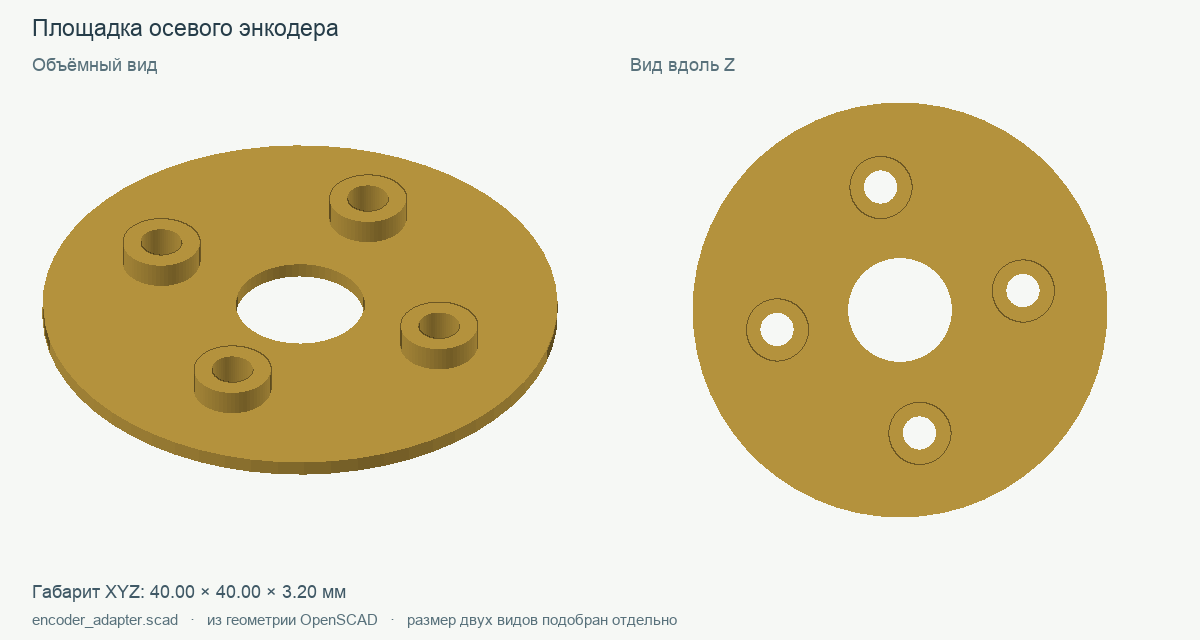
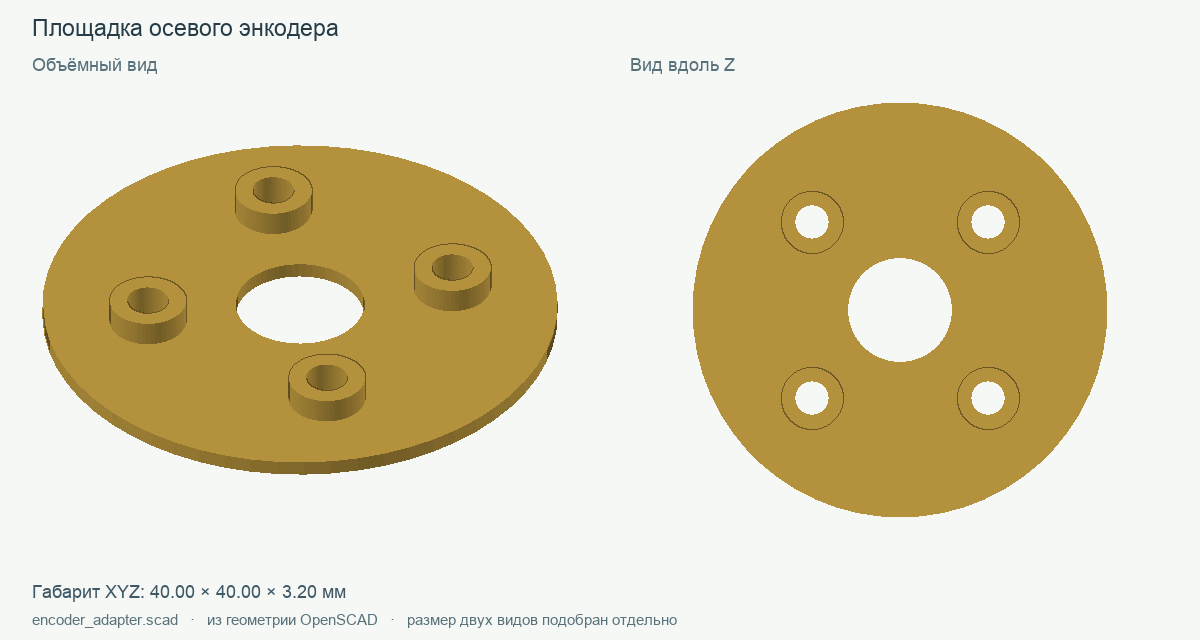
Separate motor cover adapter holes from motor mounting bores
Place adapter fasteners at 45-degree diagonals independently of the outer cover mounting phase, and use matching coordinates on both mating parts. Update saved SCAD models, catalog images and README title.

Verify actual bores and solid webs in generated D70/D80 models and the README reference model. All 24 generator tests pass.

diff --git a/calc-vpts.py b/calc-vpts.py
@@ -87,6 +87,7 @@ mc_base_thickness = 4.0   # толщина нижней плиты
 mc_encoder_hole_d = 10.0  # центральное отверстие под магнит
 mc_motor_hole_1 = 16.0    # расстояние между первой парой отверстий
 mc_motor_hole_2 = 19.0    # расстояние между второй парой отверстий
+mc_adapter_angle = 45.0  # отверстия адаптера между осями крепления двигателя
 mc_nut_pad_radius = 24.0  # радиус закладных площадок
 mc_nut_pad_d = 6.0        # диаметр площадки под гайку
 mc_nut_pad_h = 3.0        # высота выступа площадки
@@ -364,6 +365,8 @@ mc_base_thickness = {mc_base_thickness:.1f};
 mc_encoder_hole_d = {mc_encoder_hole_d:.1f};
 mc_motor_hole_1 = {mc_motor_hole_1:.1f};
 mc_motor_hole_2 = {mc_motor_hole_2:.1f};
+mc_adapter_angle = {mc_adapter_angle:.1f};
+mc_adapter_angles = [for (i = [0:3]) mc_adapter_angle + 90*i];
 mc_nut_pad_radius = {mc_nut_pad_radius:.1f};
 mc_nut_pad_d = {mc_nut_pad_d:.1f};
 mc_nut_pad_h = {mc_nut_pad_h:.1f};
@@ -732,8 +735,8 @@ module motor_cover() {{
         }}
         // --- Закладные площадки под гайки (внутри кожуха, на верхней стороне плиты) ---
         {{
-            for (angle = motor_angles) {{
-                rotate([0, 0, angle+45]){{
+            for (angle = mc_adapter_angles) {{
+                rotate([0, 0, angle]){{
                     translate([mc_nut_pad_radius/2, 0, mc_base_thickness-2.49])
                         cylinder(h = mc_nut_pad_h, r = mc_nut_pad_d / 2, center = false);
                      translate([mc_nut_pad_radius/2, 0, 0])
@@ -1145,15 +1148,15 @@ module encoder_adapter(h=1.2){{
     difference() {{
         union() {{
             cylinder(h = h, r = mc_motor_plate_d / 2-5, center = false);
-            for (angle = motor_angles) {{
-                rotate([0, 0, angle+45]){{
+            for (angle = mc_adapter_angles) {{
+                rotate([0, 0, angle]){{
                     translate([mc_nut_pad_radius/2, 0, h])
                         cylinder(h = 2, r = 3);
                 }}
             }}
         }}
-        for (angle = motor_angles) {{
-            rotate([0, 0, angle+45]){{
+        for (angle = mc_adapter_angles) {{
+            rotate([0, 0, angle]){{
                 translate([mc_nut_pad_radius/2, 0, -0.01])
                     cylinder(h = h+2.02, r = 1.6);
             }}

diff --git a/tests/test_encoder_generator.py b/tests/test_encoder_generator.py
@@ -144,6 +144,37 @@ class GeneratorIntegrationTests(unittest.TestCase):
                     self.assertNotIn('ERROR:',result.stderr)
 
     @unittest.skipUnless(OPENSCAD,'OpenSCAD CLI is not installed')
+    def test_motor_adapter_holes_leave_solid_webs(self):
+        # Probe the actual solids: both mating parts need four diagonal bores,
+        # and material must remain between them and the motor mounting bores.
+        models=[self.models[70],self.models[80],ROOT/'docs/parts/reference_model.scad']
+        probes={
+            'cover_holes': ('motor_cover();',
+                'for(a=[45:90:315]) rotate(a) translate([12,0,-.9]) cylinder(r=1.3,h=4.8,$fn=16);', True),
+            'adapter_holes': ('encoder_adapter();',
+                'for(a=[45:90:315]) rotate(a) translate([12,0,.1]) cylinder(r=1.3,h=3,$fn=16);', True),
+            'cover_webs': ('motor_cover();',
+                'for(x=[-1,1],y=[-1,1]) translate([x*(8+12/sqrt(2))/2,y*6/sqrt(2),2.2]) cylinder(r=.15,h=1,$fn=16);', False),
+        }
+        for index,model in enumerate(models):
+            for name,(part,probe,empty) in probes.items():
+                with self.subTest(model=model,name=name):
+                    source=self.work/f'motor_{index}_{name}.scad'
+                    source.write_text(f'use <{model}>\nintersection(){{ {part} union(){{ {probe} }} }}\n')
+                    stl=source.with_suffix('.stl')
+                    run=subprocess.run([OPENSCAD,'-o',str(stl),str(source)],capture_output=True,text=True,timeout=90)
+                    self.assertNotIn('WARNING:',run.stderr)
+                    self.assertNotIn('ERROR:',run.stderr)
+                    self.assertEqual(run.returncode,1 if empty else 0,run.stderr)
+                    if empty:
+                        self.assertIn('Current top level object is empty.',run.stderr)
+                    else:
+                        vertices=re.findall(r'vertex\s+([-\d.eE+]+)\s+([-\d.eE+]+)\s+([-\d.eE+]+)',stl.read_text())
+                        self.assertTrue(vertices)
+                        self.assertEqual({(float(x)>0,float(y)>0) for x,y,z in vertices},
+                                         {(False,False),(False,True),(True,False),(True,True)})
+
+    @unittest.skipUnless(OPENSCAD,'OpenSCAD CLI is not installed')
     def test_base_parts_remain_available(self):
         parts=['rigid_gear','rigid_gear_with_bracing','separator','reducer_connector',
                'connector_clamp','eccentric','cap','cap_with_bracing','eccentric_shaft',

diff --git a/README.md b/README.md
@@ -1,5 +1,4 @@
-# vptc-calc
-Калькулятор ВПТК (Волновой редуктор с роликами)
+# Калькулятор ВПТК (Волновой редуктор с промежуточными телами качения)
 
 ## Сохранённая плата энкодера
 
@@ -407,13 +406,14 @@ cap_with_bracing();
 motor_cover();
 ```
 
-Как построить: Объединить нижнюю площадку, наклонные стойки через hull(), вертикальные опоры и верхнее кольцо. Обрезать наружный габарит и вычесть отверстия двигателя, магнита, гаек и крепления B.
+Как построить: Объединить нижнюю площадку, наклонные стойки через hull(), вертикальные опоры и верхнее кольцо. Обрезать наружный габарит и вычесть отверстия двигателя, магнита, гаек и крепления B. Четыре отверстия адаптера расположены по диагоналям между осями крепления двигателя; ответный адаптер использует те же углы.
 
 | Параметр | Значение в эталоне | Что задаёт |
 | --- | --- | --- |
 | `mc_motor_plate_d / mc_base_thickness` | 50 / 4 | Диаметр площадки / толщина плиты |
 | `mc_total_height` | 27.5 | Высота, рассчитанная по осевой сборке |
 | `mc_motor_hole_1 / mc_motor_hole_2` | 16 / 19 | Межосевые расстояния пар крепления мотора |
+| `mc_adapter_angle` | 45° | Начальный угол четырёх отверстий адаптера на R12 мм, шаг 90° |
 | `mc_encoder_hole_d` | 10 | Центральное отверстие |
 | `mc_ring_width / mc_ring_height` | 4 / 5 | Ширина / высота верхнего кольца |
 
@@ -827,6 +827,7 @@ encoder_adapter(h=1.2);
 | `h` | 1.2 | Аргумент: толщина площадки |
 | `mc_motor_plate_d` | 50 | Радиус диска = plate_d/2 − 5 |
 | `mc_nut_pad_radius` | 24 | Диаметр окружности центров стоек в данном модуле |
+| `mc_adapter_angle` | 45° | Начальный угол креплений, совпадающий с кожухом мотора; шаг 90° |
 | `mc_encoder_hole_d` | 10 | Центральное отверстие |
 
 #### 29. Держатель магнита осевого энкодера
